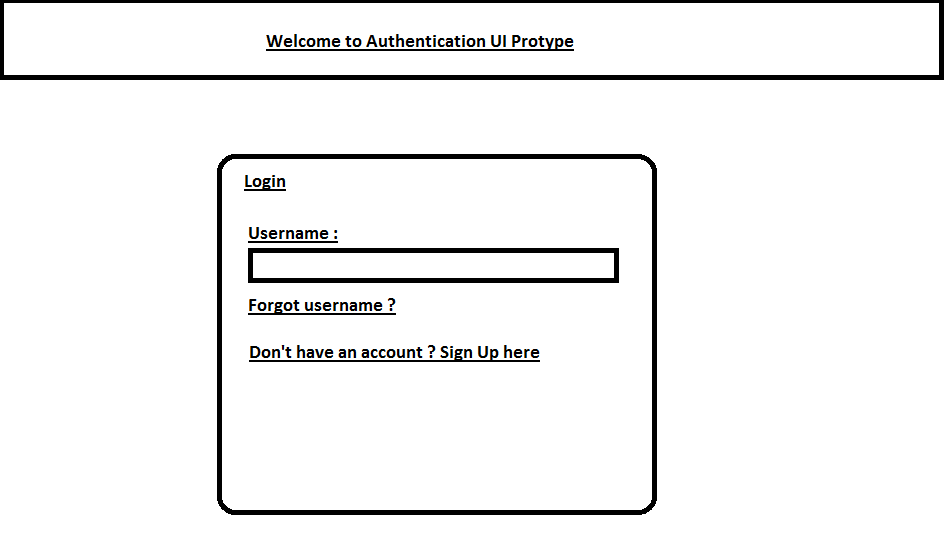
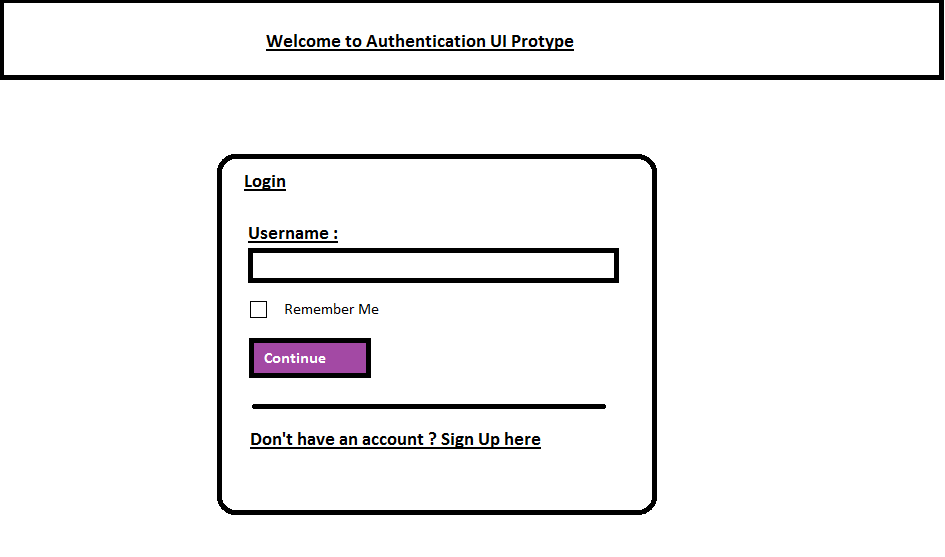
created authentication service , created usernameAuthtication function (in-progress) ,updated username component styling and the handleSubmit function (in-progress)

Changed region(s): [[0.2455, 0.5189, 0.6444, 0.7325], [0.2455, 0.763, 0.5831, 0.8241]]

diff --git a/authentication-UI-prototype/src/app/app.module.ts b/authentication-UI-prototype/src/app/app.module.ts
@@ -2,6 +2,7 @@ import { BrowserModule } from '@angular/platform-browser';
 import { NgModule } from '@angular/core';
 import { ReactiveFormsModule } from '@angular/forms';
 import { AppRoutingModule } from './app-routing.module';
+import { HttpClientModule } from '@angular/common/http';
 import { AppComponent } from './app.component';
 import { BrowserAnimationsModule } from '@angular/platform-browser/animations';
 import { UsernameComponent } from './username/username.component';
@@ -15,7 +16,8 @@ import { UsernameComponent } from './username/username.component';
     BrowserModule,
     AppRoutingModule,
     BrowserAnimationsModule,
-    ReactiveFormsModule
+    ReactiveFormsModule,
+    HttpClientModule
   ],
   providers: [],
   bootstrap: [AppComponent]

diff --git a/authentication-UI-prototype/src/app/username/username.component.ts b/authentication-UI-prototype/src/app/username/username.component.ts
@@ -27,7 +27,7 @@ export class UsernameComponent implements OnInit {
       if (errors.required) {
         this.userNameError = "Please enter your user name";
       } else if (errors.minlength) {
-        this.userNameError = "The user name is minimum 5 characters long";
+        this.userNameError = "The user name is minimum 5 characters long. Please recheck your user name";
       }
     }
   }
@@ -37,6 +37,9 @@ export class UsernameComponent implements OnInit {
   }
 
   handleSubmit(): void {
+    if(this.userNameForm.status === "VALID"){
+      alert('submitFunctionCalled');
+    }
   }
 
 }

diff --git a/authentication-UI-prototype/src/app/username/username.component.html b/authentication-UI-prototype/src/app/username/username.component.html
@@ -6,7 +6,7 @@
             <input id="userName" type="text" formControlName="userName" ngModel
             [ngClass]="{'form-control': true, 'is-invalid': userNameError}" (blur)="handleInputBlur()"  (focus)="handleInputFocus()"/>
             <div class="alert alert-danger" role="alert" *ngIf="userNameError">{{userNameError}}</div>
-            <button type="submit" class="btn btn-primary contnue-button">Continue</button>
+            <button type="submit" class="btn btn-primary continue-button">Continue</button>
         </div>
     </form>
 

diff --git a/authentication-UI-prototype/src/app/services/authentication.service.ts b/authentication-UI-prototype/src/app/services/authentication.service.ts
@@ -1,0 +1,17 @@
+import { Injectable } from '@angular/core';
+import { HttpClient } from '@angular/common/http'
+import { Observable } from 'rxjs/internal/Observable';
+
+@Injectable({
+  providedIn: 'root'
+})
+export class AuthenticationService {
+
+  constructor(
+    private httpClient: HttpClient
+  ) { }
+
+  authenticateUser(username):Observable<Object>{
+   return this.httpClient.post('#',username);
+  }
+}

diff --git a/authentication-UI-prototype/src/app/services/authentication.service.spec.ts b/authentication-UI-prototype/src/app/services/authentication.service.spec.ts
@@ -1,0 +1,12 @@
+import { TestBed } from '@angular/core/testing';
+
+import { AuthenticationService } from './authentication.service';
+
+describe('AuthenticationService', () => {
+  beforeEach(() => TestBed.configureTestingModule({}));
+
+  it('should be created', () => {
+    const service: AuthenticationService = TestBed.get(AuthenticationService);
+    expect(service).toBeTruthy();
+  });
+});

diff --git a/authentication-UI-prototype/src/app/username/username.service.spec.ts b/authentication-UI-prototype/src/app/username/username.service.spec.ts
@@ -1,0 +1,12 @@
+import { TestBed } from '@angular/core/testing';
+
+import { UsernameService } from './username.service';
+
+describe('UsernameService', () => {
+  beforeEach(() => TestBed.configureTestingModule({}));
+
+  it('should be created', () => {
+    const service: UsernameService = TestBed.get(UsernameService);
+    expect(service).toBeTruthy();
+  });
+});

diff --git a/authentication-UI-prototype/src/app/username/username.component.scss b/authentication-UI-prototype/src/app/username/username.component.scss
@@ -1,9 +1,10 @@
 @import 'src/_styleVariables.scss';
 
-.contnue-button{
+.continue-button{
     background-color: $default-color;
+    margin-top: 10px;
 }
 
 .continue-button:hover {
-   background-color: black !important;
+   background-color: $hover-background-color;
 }

diff --git a/authentication-UI-prototype/src/app/username/username.service.ts b/authentication-UI-prototype/src/app/username/username.service.ts
@@ -1,0 +1,8 @@
+import { Injectable } from '@angular/core';
+
+@Injectable({
+  providedIn: 'root'
+})
+export class UsernameService {
+  constructor() { }
+}
